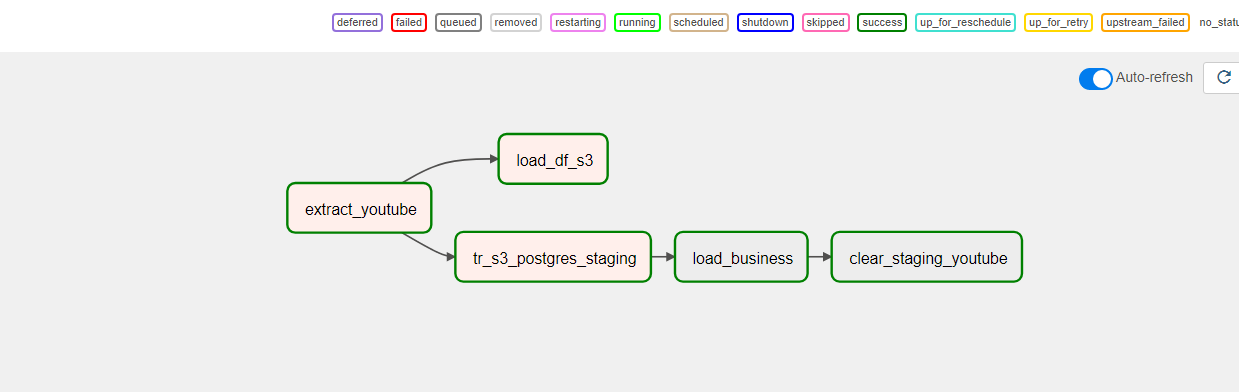
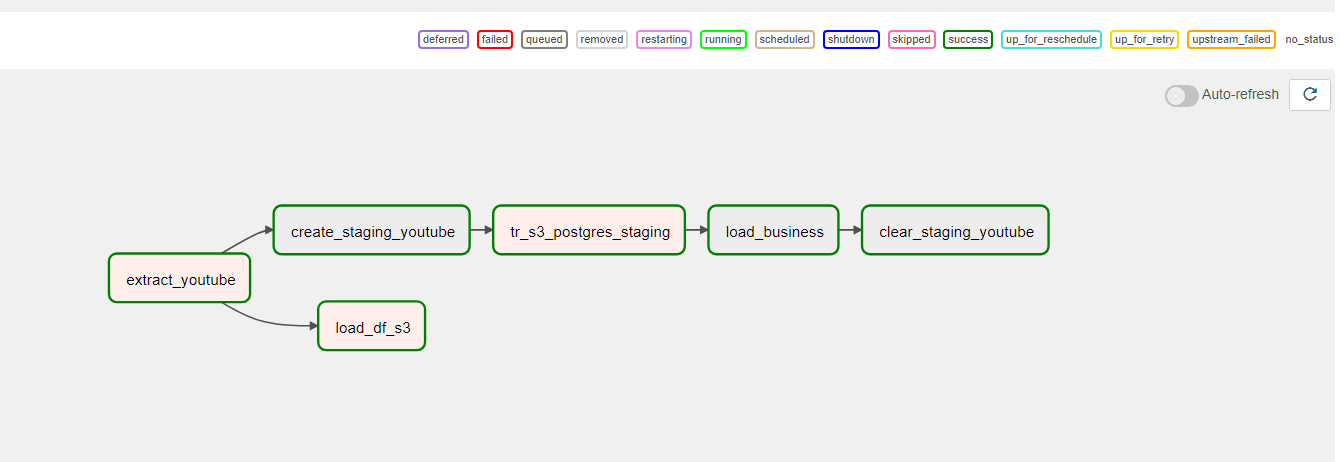
add dag s3 --> pd, fix dag_youtube_s3_pd

diff --git a/dag_s3_pd.py b/dag_s3_pd.py
@@ -1,0 +1,75 @@
+import pandas as pd
+import io
+
+from airflow import DAG
+from airflow.operators.python_operator import PythonOperator
+from airflow.operators.postgres_operator import PostgresOperator
+from airflow.utils.dates import days_ago
+from airflow.providers.amazon.aws.hooks.s3 import S3Hook
+from airflow.providers.postgres.hooks.postgres import PostgresHook
+
+
+def extract_from_s3_clear_load_pd(**context):
+    pg_conn = PostgresHook(postgres_conn_id='postgres')
+    s3_conn = S3Hook(aws_conn_id='s3')
+    s3_file = s3_conn.read_key('youtube_extract_2023-05-21.csv', bucket_name='youtube-analytics')
+    df = pd.read_csv(io.StringIO(s3_file))
+    print(df.head())
+
+    df.dropna(subset=['video_id', 'channel_id'], inplace=True)
+    df.fillna({'comment_count': 0,
+               'view_count': 0,
+               'like_count': 0},
+              inplace=True)
+    df.drop_duplicates(subset='video_id', inplace=True)
+
+    pg_conn.insert_rows(table='youtube',
+                        rows=df.values.tolist(),
+                        target_fields=['date_extract', 'video_id', 'title', 'description', 'view_count', 'like_count', 'comment_count',
+                                       'time_published', 'channel_id', 'channel_title'])
+
+
+with DAG('dag_fix',
+         schedule_interval='0 0 1 1 0',
+         start_date=days_ago(1),
+         default_args={'owner': 'airflow'}) as dag:
+    t1 = PostgresOperator(task_id='create_staging_youtube',
+                          postgres_conn_id='postgres',
+                          sql='''
+                        CREATE TABLE IF NOT EXISTS public.youtube (
+                        rank serial4 NOT NULL,
+                        date_extract timestamp NOT NULL,
+                        video_id text NOT NULL,
+                        title text NULL,
+                        description text NULL,
+                        view_count bigint NULL,
+                        like_count int4 NULL,
+                        comment_count int4 NULL,
+                        time_published timestamp NULL,
+                        channel_id text NOT NULL,
+                        channel_title text NULL)
+                    ''')
+
+    t2 = PythonOperator(task_id='read_s3_load_pd',
+                        python_callable=extract_from_s3_clear_load_pd)
+
+    t3 = PostgresOperator(task_id='load_business',
+                          postgres_conn_id='postgres',
+                          sql='''
+                    INSERT INTO business.channels
+                    SELECT DISTINCT(channel_id), channel_title
+                    FROM public.youtube
+                    WHERE channel_id NOT IN (SELECT channel_id
+                                            FROM business.channels)
+                    ON CONFLICT DO NOTHING;
+
+                    INSERT INTO business.videos
+                    SELECT rank, date_extract, video_id, title, description, view_count, like_count, comment_count, time_published, channel_id
+                    FROM public.youtube;
+                    ''')
+
+    t4 = PostgresOperator(task_id='clear_staging_youtube',
+                          postgres_conn_id='postgres',
+                          sql='DROP TABLE public.youtube')
+
+t1 >> t2 >> t3 >> t4

diff --git a/dag_youtube_s3_pd.py b/dag_youtube_s3_pd.py
@@ -12,7 +12,7 @@ from airflow.providers.amazon.aws.hooks.s3 import S3Hook
 dag = DAG(
     dag_id='dag_tr_youtube_s3_pd.py',
     default_args={'owner': 'aiflow'},
-    schedule_interval='0 5 * * *',
+    schedule_interval='0 9 * * *',
     start_date=days_ago(1)
 )
 
@@ -130,12 +130,30 @@ t2 = PythonOperator(task_id='load_df_s3',
                     python_callable=load_df_s3,
                     dag=dag)
 
-t3 = PythonOperator(task_id='tr_s3_postgres_staging',
+t3 = PostgresOperator(task_id='create_staging_youtube',
+                      postgres_conn_id='postgres',
+                      dag=dag,
+                      sql='''
+                        CREATE TABLE public.youtube (
+                        rank serial4 NOT NULL,
+                        date_extract timestamp NOT NULL,
+                        video_id text NOT NULL,
+                        title text NULL,
+                        description text NULL,
+                        view_count bigint NULL,
+                        like_count int4 NULL,
+                        comment_count int4 NULL,
+                        time_published timestamp NULL,
+                        channel_id text NOT NULL,
+                        channel_title text NULL)
+                    ''')
+t4 = PythonOperator(task_id='tr_s3_postgres_staging',
                     python_callable=load_df_postgres,
                     dag=dag)
 
-t4 = PostgresOperator(task_id='load_business',
+t5 = PostgresOperator(task_id='load_business',
                       postgres_conn_id='postgres',
+                      dag=dag,
                       sql='''
                     INSERT INTO business.channels
                     SELECT DISTINCT(channel_id), channel_title
@@ -149,8 +167,9 @@ t4 = PostgresOperator(task_id='load_business',
                     FROM public.youtube;
                     ''')
 
-t5 = PostgresOperator(task_id='clear_staging_youtube',
+t6 = PostgresOperator(task_id='clear_staging_youtube',
                       postgres_conn_id='postgres',
-                      sql='TRUNCATE public.youtube')
+                      dag=dag,
+                      sql='DROP TABLE public.youtube')
 
-t1 >> [t2, t3], t3 >> t4 >> t5
+t1 >> [t2, t3], t3 >> t4 >> t5 >> t6
